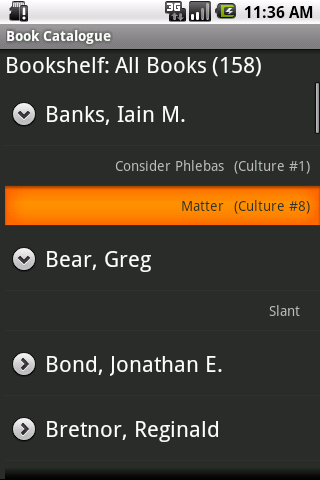
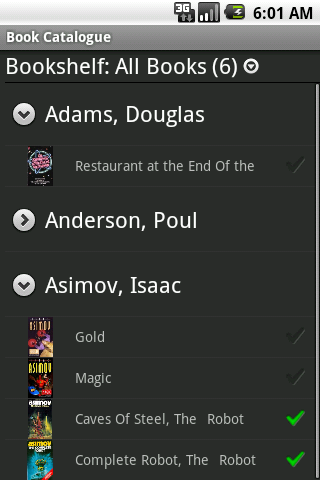
Search menu button + beginning add by name menu button

diff --git a/src/com/eleybourn/bookcatalogue/BookISBNSearch.java b/src/com/eleybourn/bookcatalogue/BookISBNSearch.java
@@ -50,8 +50,11 @@ import android.widget.Toast;
  */
 public class BookISBNSearch extends Activity {
 	private static final int CREATE_BOOK = 0;
+	public static final String BY = "by";
 	
 	private EditText mIsbnText;
+	private EditText mTitleText;
+	private EditText mAuthorText;
 	private TextView mIsbnStatus;
 	private Button mConfirmButton;
 	private CatalogueDBAdapter mDbHelper;
@@ -73,17 +76,18 @@ public class BookISBNSearch extends Activity {
 		mDbHelper = new CatalogueDBAdapter(this);
 		mDbHelper.open();
 		
-		setContentView(R.layout.isbn_search);
-		mIsbnText = (EditText) findViewById(R.id.isbn);
-		mIsbnStatus = (TextView) findViewById(R.id.isbn_search_status);
-		mConfirmButton = (Button) findViewById(R.id.search);
+		isbn = extras.getString("isbn");
+		String by = extras.getString(BY);
 		
-		if (extras != null) {
+		if (isbn != null) {
 			//ISBN has been passed by another component
-			isbn = extras.getString("isbn");
 			mIsbnText.setText(isbn);
-			go(isbn);
-		} else {
+			go(isbn, "", "");
+		} else if (by.equals("isbn")) {
+			setContentView(R.layout.isbn_search);
+			mIsbnText = (EditText) findViewById(R.id.isbn);
+			mIsbnStatus = (TextView) findViewById(R.id.isbn_search_status);
+			mConfirmButton = (Button) findViewById(R.id.search);
 			
 			// Set the number buttons
 			Button button1 = (Button) findViewById(R.id.isbn_1);
@@ -122,7 +126,21 @@ public class BookISBNSearch extends Activity {
 			mConfirmButton.setOnClickListener(new View.OnClickListener() {
 				public void onClick(View view) {
 					String mIsbn = mIsbnText.getText().toString();
-					go(mIsbn);
+					go(mIsbn, "", "");
+				}
+			});
+		} else if (by.equals("name")) {
+			setContentView(R.layout.name_search);
+			mAuthorText = (EditText) findViewById(R.id.author);
+			mTitleText = (EditText) findViewById(R.id.title);
+			mIsbnStatus = (TextView) findViewById(R.id.isbn_search_status);
+			mConfirmButton = (Button) findViewById(R.id.search);
+			
+			mConfirmButton.setOnClickListener(new View.OnClickListener() {
+				public void onClick(View view) {
+					String mAuthor = mAuthorText.getText().toString();
+					String mTitle = mTitleText.getText().toString();
+					go("", mAuthor, mTitle);
 				}
 			});
 		}
@@ -172,7 +190,7 @@ public class BookISBNSearch extends Activity {
 	 * 
 	 * @param isbn The ISBN to search
 	 */
-	protected void go(String isbn) {
+	protected void go(String isbn, String author, String title) {
 		// If the book already exists, do not continue
 		mConfirmButton.setEnabled(false);
 		try {

diff --git a/src/com/eleybourn/bookcatalogue/BookCatalogue.java b/src/com/eleybourn/bookcatalogue/BookCatalogue.java
@@ -87,6 +87,8 @@ public class BookCatalogue extends ExpandableListActivity {
 	private static final int EDIT_BOOK = Menu.FIRST + 10;
 	private static final int EDIT_BOOK_NOTES = Menu.FIRST + 11;
 	private static final int EDIT_BOOK_FRIENDS = Menu.FIRST + 12;
+	private static final int SEARCH = Menu.FIRST + 13;
+	private static final int INSERT_NAME_ID = Menu.FIRST + 14;
 	
 	public static String bookshelf = "All Books";
 	private ArrayAdapter<String> spinnerAdapter;
@@ -1072,6 +1074,9 @@ public class BookCatalogue extends ExpandableListActivity {
 		MenuItem insertISBN = menu.add(0, INSERT_ISBN_ID, 2, R.string.menu_insert_isbn);
 		insertISBN.setIcon(android.R.drawable.ic_menu_zoom);
 		
+		MenuItem insertName = menu.add(0, INSERT_NAME_ID, 2, R.string.menu_insert_name);
+		insertName.setIcon(android.R.drawable.ic_menu_zoom);
+		
 		if (expanded == true) {
 			MenuItem collapse = menu.add(0, SORT_BY_AUTHOR_EXPANDED, 3, R.string.menu_sort_by_author_collapsed);
 			collapse.setIcon(R.drawable.ic_menu_collapse);
@@ -1086,6 +1091,9 @@ public class BookCatalogue extends ExpandableListActivity {
 		String adminTitle = getResources().getString(R.string.help) + " & " + getResources().getString(R.string.menu_administration);
 		MenuItem admin = menu.add(0, ADMIN, 5, adminTitle);
 		admin.setIcon(android.R.drawable.ic_menu_manage);
+		
+		MenuItem search = menu.add(0, SEARCH, 4, R.string.menu_search);
+		search.setIcon(android.R.drawable.ic_menu_search);
 		
 		return super.onPrepareOptionsMenu(menu);
 	}
@@ -1110,13 +1118,19 @@ public class BookCatalogue extends ExpandableListActivity {
 			createBook();
 			return true;
 		case INSERT_ISBN_ID:
-			createBookISBN();
+			createBookISBN("isbn");
 			return true;
 		case INSERT_BARCODE_ID:
 			createBookScan();
 			return true;
 		case ADMIN:
 			adminPage();
+			return true;
+		case SEARCH:
+			onSearchRequested();
+			return true;
+		case INSERT_NAME_ID:
+			createBookISBN("name");
 			return true;
 		}
 		
@@ -1363,8 +1377,9 @@ public class BookCatalogue extends ExpandableListActivity {
 	/**
 	 * Load the Search by ISBN Activity
 	 */
-	private void createBookISBN() {
+	private void createBookISBN(String by) {
 		Intent i = new Intent(this, BookISBNSearch.class);
+		i.putExtra(BookISBNSearch.BY, by);
 		startActivityForResult(i, ACTIVITY_ISBN);
 	}
 	
